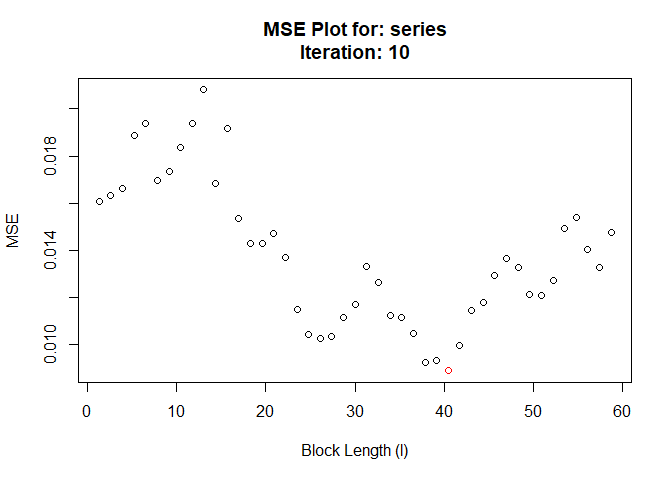
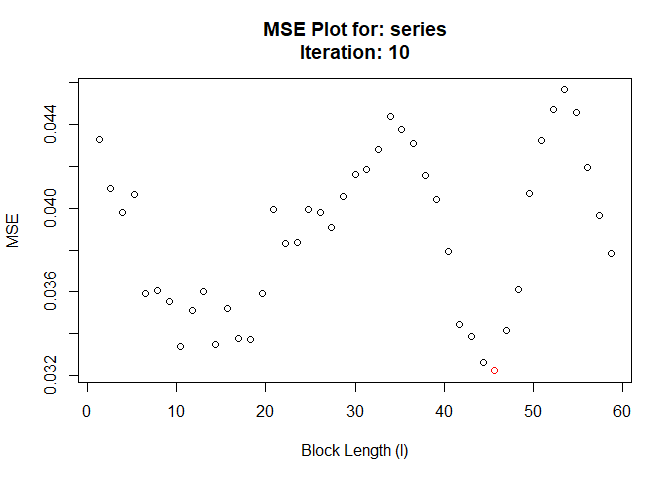
Add lifcycle badge

diff --git a/README.md b/README.md
@@ -7,6 +7,9 @@
 
 [![Build
 Status](https://travis-ci.org/Alec-Stashevsky/hhjboot.svg?branch=main)](https://travis-ci.org/Alec-Stashevsky/hhjboot)
+
+[![Lifecycle:
+maturing](https://img.shields.io/badge/lifecycle-maturing-blue.svg)](https://www.tidyverse.org/lifecycle/#maturing)
 <!-- badges: end -->
 
 The goal of hhjboot is to simplify and automate the process of selecting
@@ -36,7 +39,7 @@ devtools::install_github("Alec-Stashevsky/hhjboot")
 
   - change parallel package to suggest instead of import and add
     requireNamespace()
-  - build test to make sure overlaping subsamples cover entire series
+  - build test to make sure overlapping subsamples cover entire series
 
 ## Example
 
@@ -47,25 +50,33 @@ library(hhjboot)
 
 # Simulate AR(1) time series
 series <- stats::arima.sim(model = list(order = c(1, 0, 0), ar = 0.5),
-                                     n = 100, innov = rnorm(100))
+                                     n = 500, innov = rnorm(500))
 # Default
-hhjboot(series, sub.block.size = 45)
+hhjboot(series, sub.block.size = 100, grid.step = 10)
 #>  Pilot block length is: 3
 #> Registered S3 method overwritten by 'quantmod':
 #>   method            from
 #>   as.zoo.data.frame zoo
 #> Performing minimization may take some time
-#> Calculating MSE for each level in subsample: 45 function evaluations required.
-#>  Converged at block length (l): 3
+#> Calculating MSE for each level in subsample: 100 function evaluations required.
+#>  Chosen block length: 171  After iteration: 1
 ```
 
 <img src="man/figures/README-example-1.png" width="100%" />
 
+    #>  Chosen block length: 2  After iteration: 2
+
+<img src="man/figures/README-example-2.png" width="100%" />
+
+    #>  Converged at block length (l): 2
+
+<img src="man/figures/README-example-3.png" width="100%" />
+
     #> $`Optimal Block Length`
-    #> [1] 3
+    #> [1] 2
     #> 
-    #> $`Pilot Number of Blocks (m)`
-    #> [1] 45
+    #> $`Subsample block size (m)`
+    #> [1] 100
     #> 
     #> $Call
-    #> hhjboot(series = series, sub.block.size = 45)
+    #> hhjboot(series = series, sub.block.size = 100, grid.step = 10)
